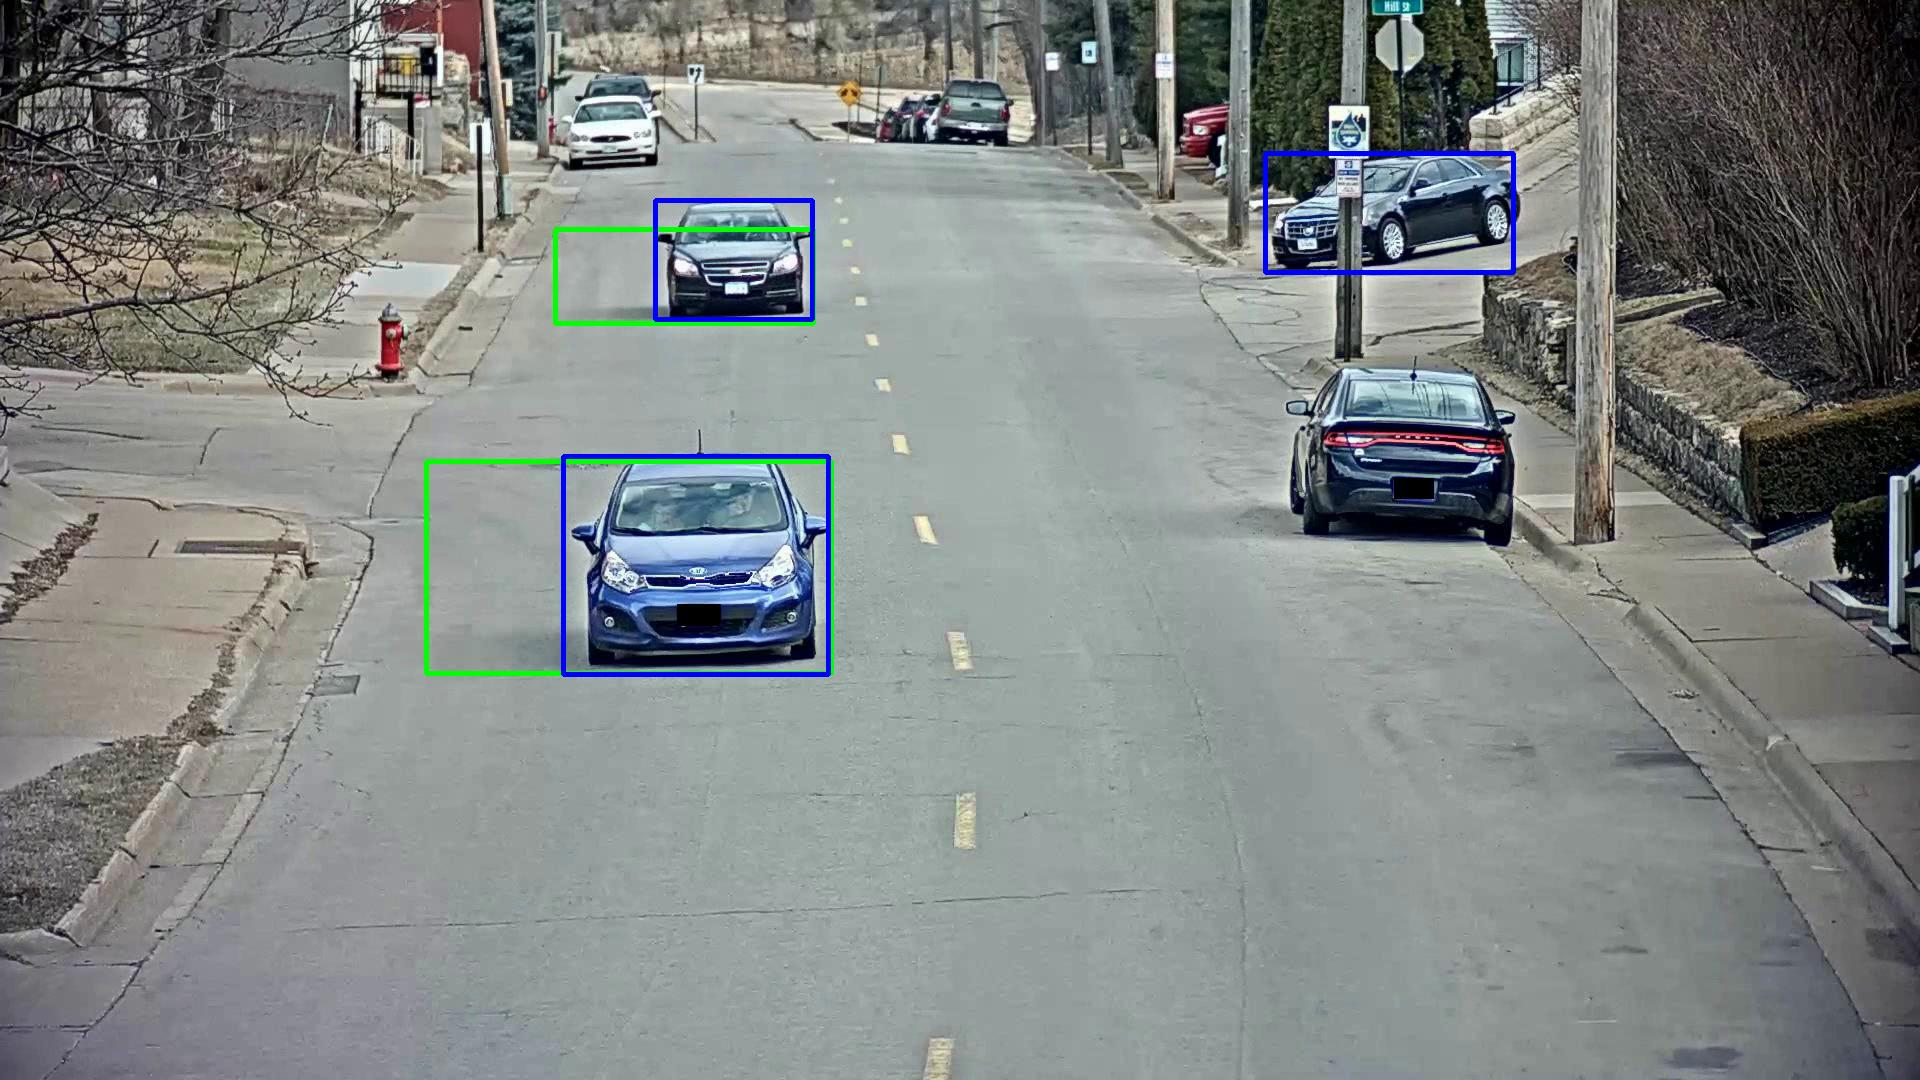
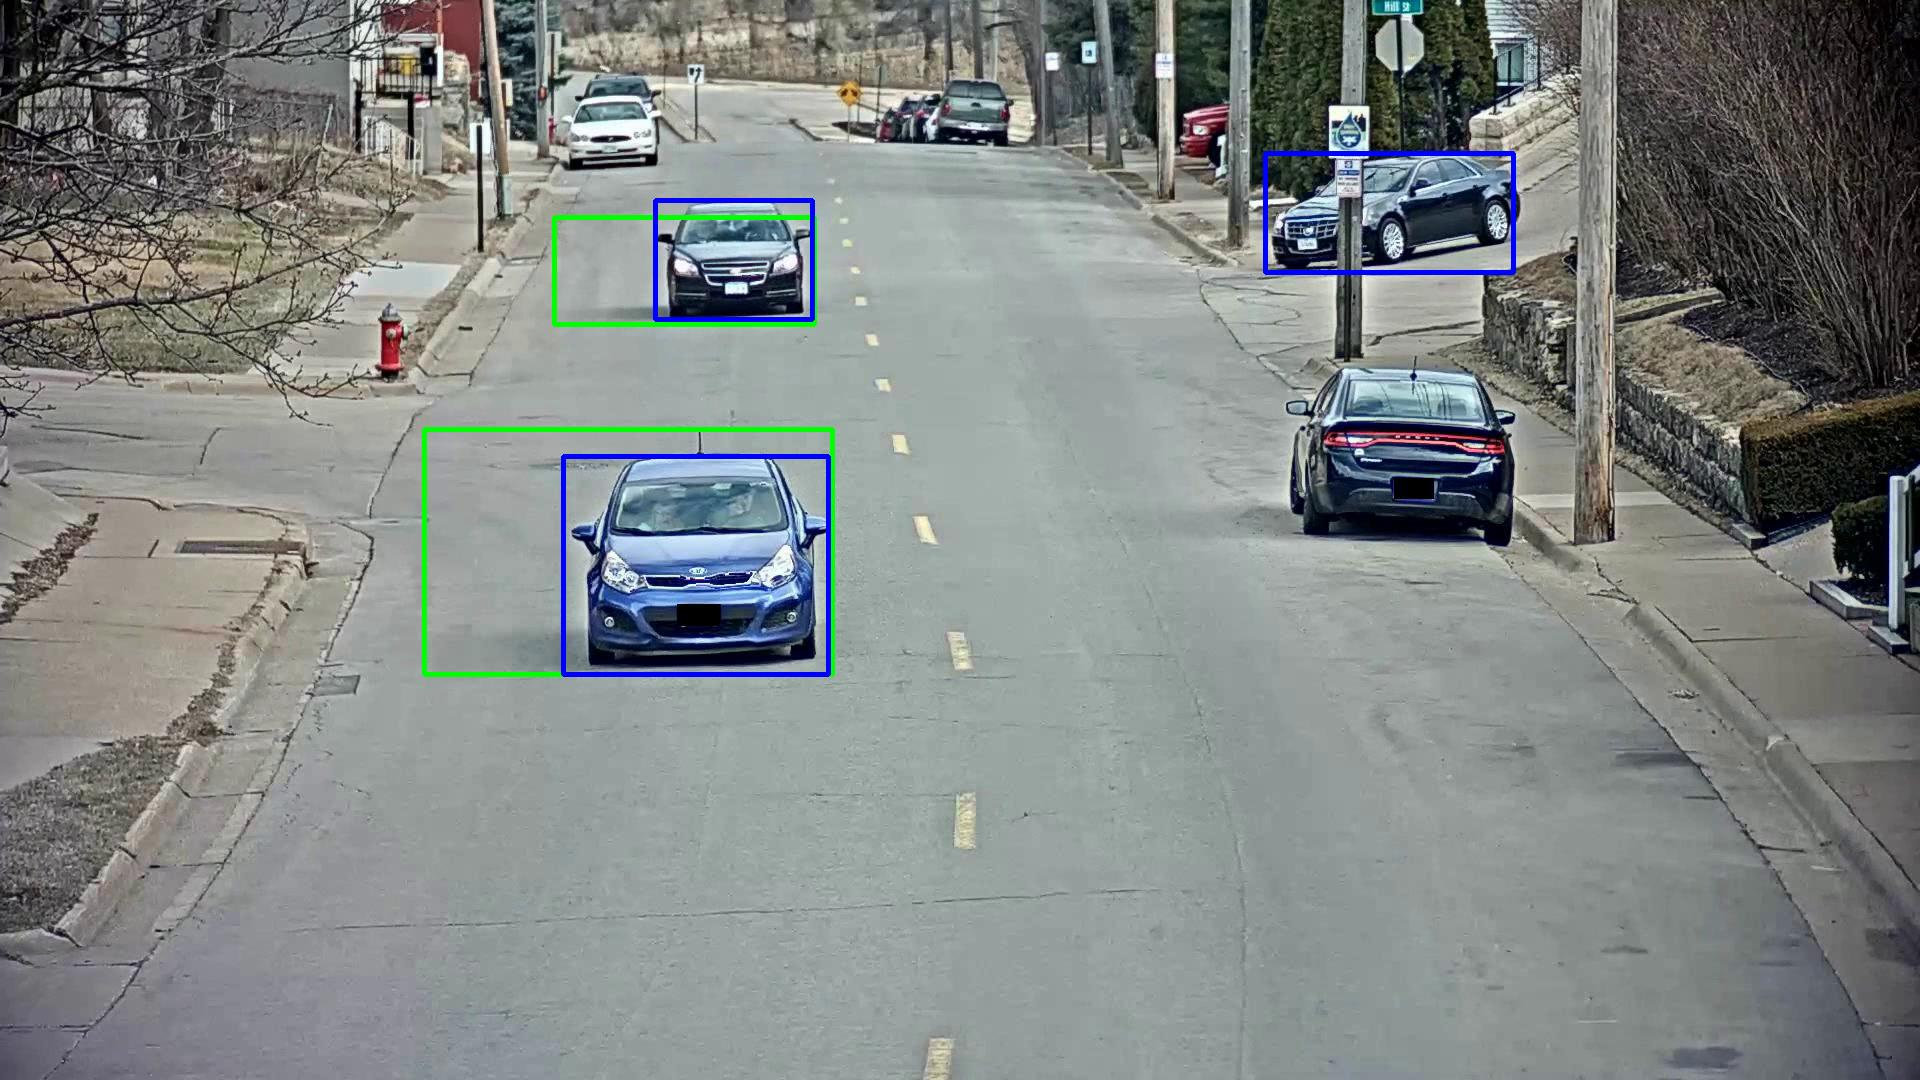
Task 1.1 and Task 1.2

Changed region(s): [[0.2188, 0.3972, 0.4375, 0.6417], [0.2812, 0.1833, 0.4375, 0.2444], [0.2812, 0.275, 0.3438, 0.3056]]

diff --git a/main.py b/main.py
@@ -3,6 +3,7 @@ import cv2
 import datetime
 import matplotlib.pyplot as plt
 import utils
+from tqdm import tqdm
 
 video_path = './AICity_data/train/S03/c010/vdo.avi'
 annotations_path = './ai_challenge_s03_c010-full_annotation.xml'
@@ -82,11 +83,11 @@ def connected_components(frame_idx, inc, gray_frame, color_frame, gt):
     """
     gray_frame = (gray_frame * 255).astype(np.uint8)
 
-    plt.imsave(f'./pruebas_1_1/before_{frame_idx + inc}.jpg', gray_frame, cmap='gray')
+    #plt.imsave(f'./pruebas_1_1/before_{frame_idx + inc}.jpg', gray_frame, cmap='gray')
 
     # Opening
-    kernel = np.ones((3,3),np.uint8)
-    gray_frame = cv2.morphologyEx(gray_frame, cv2.MORPH_OPEN, kernel)
+    # kernel = np.ones((3,3),np.uint8)
+    # gray_frame = cv2.morphologyEx(gray_frame, cv2.MORPH_OPEN, kernel)
 
     # Connected components
     analysis = cv2.connectedComponentsWithStats(gray_frame, 4, cv2.CV_32S) 
@@ -94,12 +95,12 @@ def connected_components(frame_idx, inc, gray_frame, color_frame, gt):
     output = np.zeros(gray_frame.shape, dtype="uint8")
 
     # Create mask1 and mask2 to compute metrics
-    pred_mask = np.zeros(gray_frame.shape, dtype="uint8") # prediction
-    gt_mask = np.zeros(gray_frame.shape, dtype="uint8") # gt
+    pred_mask_list = []
 
     # Loop through each component 
     for i in range(1, totalLabels): 
         area = values[i, cv2.CC_STAT_AREA] 
+        pred_mask = np.zeros(gray_frame.shape, dtype="uint8") # prediction
 
         if (area > 5_000) and (area < 250_000): 
             componentMask = (label_ids == i).astype("uint8") * 255
@@ -115,10 +116,17 @@ def connected_components(frame_idx, inc, gray_frame, color_frame, gt):
             cv2.rectangle(color_frame, (x, y), (x + w, y + h), (0, 255, 0), 3)
             cv2.rectangle(pred_mask, (x, y), (x + w, y + h), 255, -1)
 
+            #plt.imsave(f'./pruebas_1_1/pred_mask_{len(pred_mask_list)}.jpg', pred_mask, cmap="gray")
+
+            pred_mask_list.append(pred_mask)
+
     # Paint the GT Bounding boxes
+    gt_mask_list = []
+
     real_frame_idx = str(frame_idx + inc)
     if real_frame_idx in gt:
         for box in gt[real_frame_idx]:
+            gt_mask = np.zeros(gray_frame.shape, dtype="uint8") # gt
             xtl = int(float(box['xtl']))
             ytl = int(float(box['ytl']))
             xbr = int(float(box['xbr']))
@@ -126,37 +134,25 @@ def connected_components(frame_idx, inc, gray_frame, color_frame, gt):
             
             cv2.rectangle(color_frame, (xtl, ytl), (xbr, ybr), (0, 0, 255), 3)
             cv2.rectangle(gt_mask, (xtl, ytl), (xbr, ybr), 255, -1)
+
+            #plt.imsave(f'./pruebas_1_1/gt_mask_{len(gt_mask_list)}.jpg', gt_mask, cmap="gray")
+
+            gt_mask_list.append(gt_mask)
     
-    IoU = binaryMaskIOU(pred_mask, gt_mask)
-    print(f"Frame {real_frame_idx} IoU = {IoU}")
+    # Compute metrics
+    precision = utils.compute_metric(pred_mask_list, gt_mask_list, threshold=0.5)
+    recall = utils.compute_metric(gt_mask_list, pred_mask_list, threshold=0.5)
 
-    plt.imsave(f'./pruebas_1_1/after_pred_mask_{frame_idx + inc}.jpg', pred_mask, cmap="gray")
-    plt.imsave(f'./pruebas_1_1/after_gt_mask_{frame_idx + inc}.jpg', gt_mask, cmap="gray")
+    # plt.imsave(f'./pruebas_1_1/after_pred_mask_{frame_idx + inc}.jpg', pred_mask, cmap="gray")
+    # plt.imsave(f'./pruebas_1_1/after_gt_mask_{frame_idx + inc}.jpg', gt_mask, cmap="gray")
 
-    plt.imsave(f'./pruebas_1_1/after_{frame_idx + inc}.jpg', color_frame)
+    #plt.imsave(f'./pruebas_1_1/after_{frame_idx + inc}.jpg', color_frame)
 
+    return precision, recall
 
-def binaryMaskIOU(mask1, mask2):
-    mask1_area = np.count_nonzero(mask1 == 255)
-    mask2_area = np.count_nonzero(mask2 == 255)
-    intersection = np.count_nonzero(np.logical_and(mask1 == 255, mask2 == 255))
-    union = mask1_area+mask2_area-intersection
-    if union == 0: # Evitar dividir entre 0
-        return 0
-    iou = intersection/(union)
-    return iou
-
-
-def MeanIOU(gt_dict, pred_dict):
-    result = 0
-    for name, mask in gt_dict.items():
-        result += binaryMaskIOU(gt_dict[name], pred_dict[name])
-    
-    result /= len(gt_dict)
-    return result
     
 
-def Gaussian_Estimation(video_path: str, annotations_path: str):
+def Gaussian_Estimation(video_path: str, annotations_path: str, alpha):
     gray_frames, color_frames = utils.read_video(video_path)
     print(f"gray_frames.shape: {gray_frames.shape} \t color_frames.shape: {color_frames.shape}")
 
@@ -170,12 +166,23 @@ def Gaussian_Estimation(video_path: str, annotations_path: str):
     mean_, std_ = mean_and_std(gray_frames_25)
     print(f"mean video: {mean_.shape} \t std video: {std_.shape}")
 
-    estimation = estimate_foreground(gray_frames_75, mean_, std_)
+    estimation = estimate_foreground(gray_frames_75, mean_, std_, alpha_=alpha)
     print(f"estimation video: {estimation.shape}")
 
-    # Separate objects
-    for frame_idx in range(5):
-        connected_components(frame_idx, color_frames_25.shape[0], estimation[frame_idx], color_frames_75[frame_idx], gt)
+    # Separate objects and compute metrics
+    precision_list = []
+    recall_list = []
+    for frame_idx in (pbar := tqdm(range(estimation.shape[0]))):
+        precision, recall = connected_components(frame_idx, color_frames_25.shape[0], estimation[frame_idx], color_frames_75[frame_idx], gt)
+        precision_list.append(precision)
+        recall_list.append(recall)
+        pbar.set_description(f"[alpha = {alpha}] Current AP {round(sum(precision_list) / len(precision_list), 2)}")
+
+    AP = sum(precision_list) / len(precision_list)
+    AR = sum(recall_list) / len(recall_list)
+
+    print(f"[alpha = {alpha}] Average Preicison = {AP}")
+    print(f"[alpha = {alpha}] Average Recall = {AR}")
 
     #utils.make_video(color_frames_75)
     #print(f"Video done.")
@@ -183,5 +190,7 @@ def Gaussian_Estimation(video_path: str, annotations_path: str):
 
 
 if __name__ == "__main__":
-    Gaussian_Estimation(video_path, annotations_path)
+    alphas = [2, 3, 4, 5, 6, 7, 8]
+    for alpha in alphas:
+        Gaussian_Estimation(video_path, annotations_path, alpha)
     

diff --git a/utils.py b/utils.py
@@ -78,3 +78,31 @@ def make_video(estimation):
         data = cv2.cvtColor(data, cv2.COLOR_RGB2GRAY)
         out.write(data)
     out.release()
+
+
+def compute_metric(mask1_list, mask2_list, threshold=0.5):
+    val = 0
+    for mask1 in mask1_list:
+        score = 0
+        for mask2 in mask2_list:
+            IoU = binaryMaskIOU(mask1, mask2)
+            if IoU > score:
+                score = IoU
+        if score > threshold:
+            val += 1
+    if len(mask1_list) > 0:
+        val = val / len(mask1_list)
+    else:
+        val = 0
+    return val
+
+
+def binaryMaskIOU(mask1, mask2):
+    mask1_area = np.count_nonzero(mask1 == 255)
+    mask2_area = np.count_nonzero(mask2 == 255)
+    intersection = np.count_nonzero(np.logical_and(mask1 == 255, mask2 == 255))
+    union = mask1_area+mask2_area-intersection
+    if union == 0: # Evitar dividir entre 0
+        return 0
+    iou = intersection/(union)
+    return iou
